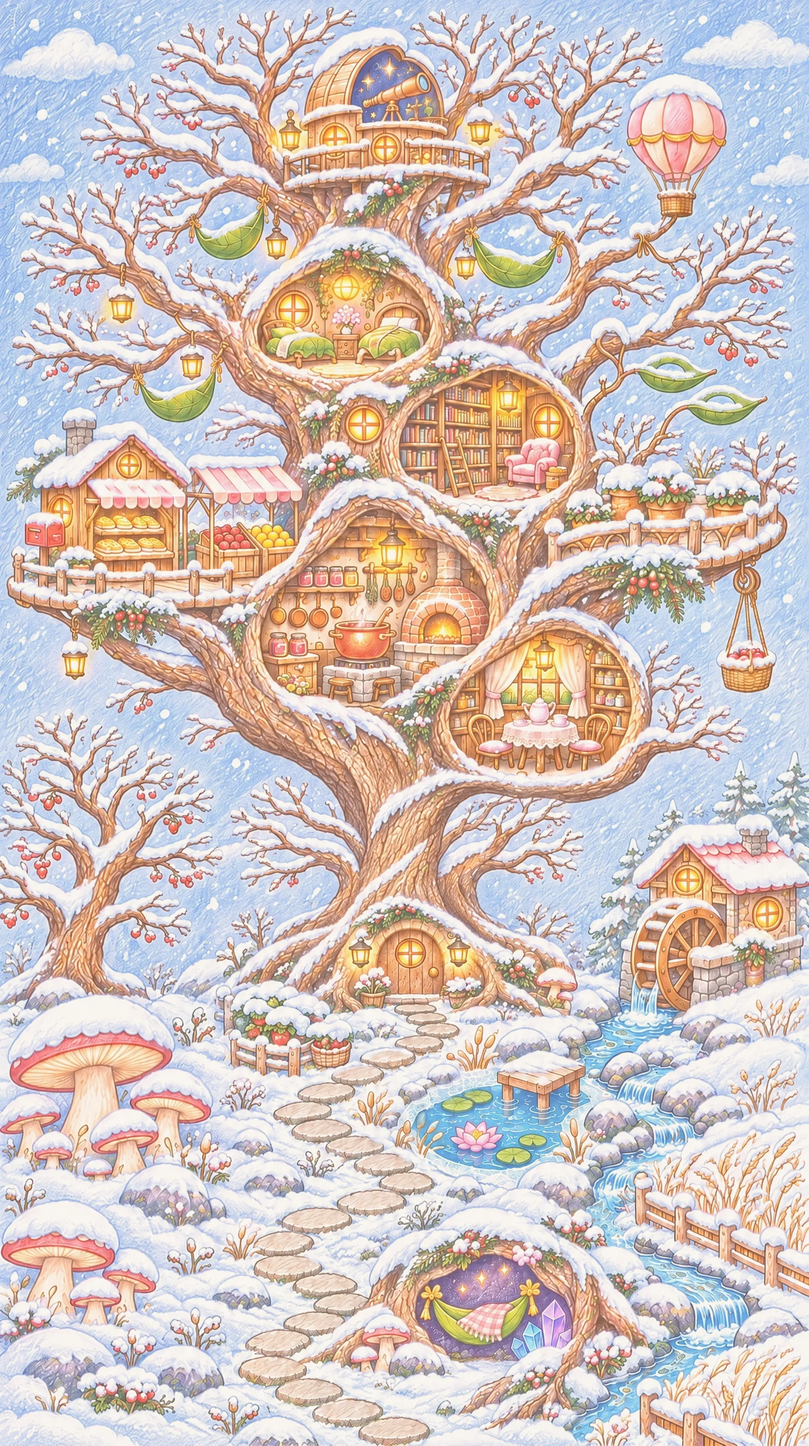
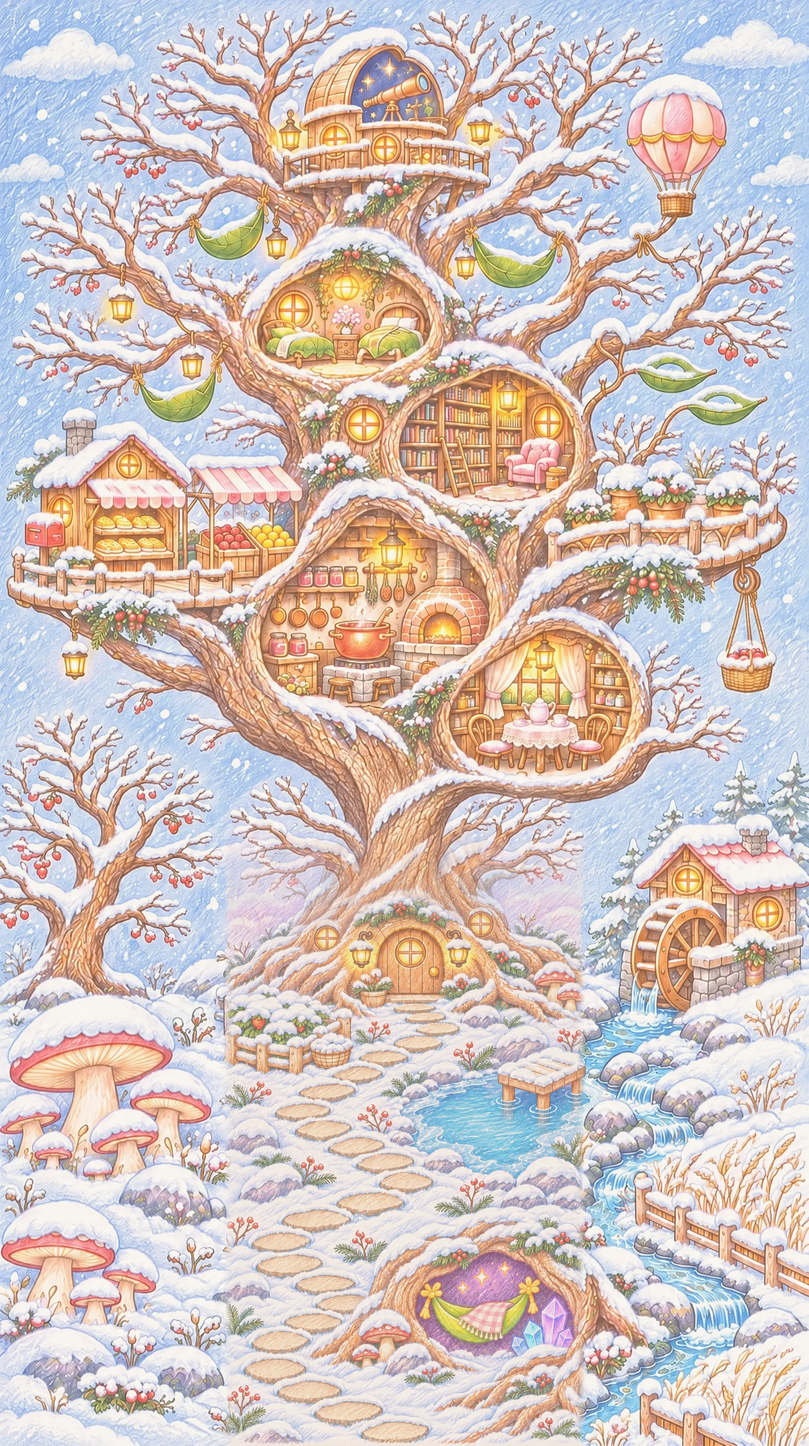
Yard blends into the widened village: sharp yard baked into the tree under a narrow edge (all seasons), no hazy seam bands
Claude-Session: https://claude.ai/code/session_01HHoDmcywH4ye6kNj1xQej8

Changed region(s): [[0.2809, 0.5919, 0.7179, 1.0]]

diff --git a/index.html b/index.html
@@ -1,4 +1,4 @@
-<!doctype html><html lang="ko"><head><meta charset="utf-8"><meta name="viewport" content="width=device-width,initial-scale=1,viewport-fit=cover,user-scalable=no"><meta name="theme-color" content="#f6d6dc"><link rel="manifest" href="manifest.webmanifest"><link rel="icon" href="icon-192.png"><link rel="apple-touch-icon" href="apple-touch-icon.png"><meta name="apple-mobile-web-app-capable" content="yes"><meta name="apple-mobile-web-app-title" content="느림마을"><style>html,body{margin:0}body{font:14px system-ui,sans-serif}[hidden]{display:none!important}</style><script>window.DV_BUILD="1795076090";</script></head><body>
+<!doctype html><html lang="ko"><head><meta charset="utf-8"><meta name="viewport" content="width=device-width,initial-scale=1,viewport-fit=cover,user-scalable=no"><meta name="theme-color" content="#f6d6dc"><link rel="manifest" href="manifest.webmanifest"><link rel="icon" href="icon-192.png"><link rel="apple-touch-icon" href="apple-touch-icon.png"><meta name="apple-mobile-web-app-capable" content="yes"><meta name="apple-mobile-web-app-title" content="느림마을"><style>html,body{margin:0}body{font:14px system-ui,sans-serif}[hidden]{display:none!important}</style><script>window.DV_BUILD="1795077087";</script></head><body>
 <meta charset="utf-8">
 <title>도롱도롱 느림마을</title>
 <meta name="claude:viewport-fit-sides" content="cover">
@@ -1122,7 +1122,7 @@ function season(){if(G.seaT!=null&&G.seaT>=0)return G.seaT;return seaBlock()%4;}
 function berryRate(){return season()!==3?1:[0,.25,.45,.7][G.gh||0];}
 // real local time of day: 0 = day, 1 = night, eased through dawn (5–7) and dusk (17–19)
 // seasonal pictures: spring is the original art; the others load when first needed. A new season fades in over 3 s.
-var SEA_V='4',SEAI={},seaFrom=-1,seaA=1;
+var SEA_V='5',SEAI={},seaFrom=-1,seaA=1;
 function seaImg(base,s){if(s===0)return base==='tree'?TREE:YHI;var key=base+SEA_K[s];if(!SEAI[key]){var im=new Image();im.src='assets/season/'+base+'_'+SEA_K[s]+'.webp?v='+SEA_V;SEAI[key]=im;}var im2=SEAI[key];return im2.complete&&im2.naturalWidth?im2:null;}
 var SEA_MSG=[__T('봄이 왔어요! 벚꽃이 흩날려요'),__T('여름이 왔어요! 연못에 물고기가 많아졌어요'),__T('가을이 왔어요! 곧 겨울이 와서 딸기밭이 쉬어요. 딸기를 모아 두세요'),__T('겨울이 왔어요! 딸기밭이 눈에 덮였어요. 모아 둔 딸기로 지내요')];
 function seaTick(q){var s=season();if(s!==seaLast){if(seaLast>=0){seaFrom=seaLast;seaA=0;if(!q&&!GUEST)toast(SEA_MSG[s]);}seaLast=s;seaImg('tree',(s+1)%4);seaImg('yard',(s+1)%4);setInfo();}
@@ -1167,7 +1167,7 @@ function nextJob(){if(hungry){if(sal.node==='door')startCry();else goTo('door');
 // ---------- view ----------
 // the village is one big tree. the old yard picture sits at the bottom centre (OX,OY) at its own scale,
 // so every yard coordinate in this file stays as it was; the camera works in tree (world) coordinates.
-var WW=1634,WH=2921,OX=441,OY=1577,TREE=new Image();TREE.src='assets/tree.webp';
+var WW=1634,WH=2921,OX=441,OY=1577,TREE=new Image();TREE.src='assets/tree.webp?v=2';
 var dpr=1,W=0,H=0,view={x:OX,y:OY,w:752},tv=null,follow=false,zl=0;
 var VSTAGE=[[1,.46],[3,.68],[5,.76],[10,.82],[15,.88],[22,.94],[30,1],[35,1],[50,1]];
 function popN(){return (typeof G!=='undefined'&&G)?(G.preview||G.n||1):1;}
@@ -1553,7 +1553,7 @@ function update(dt,t){
 function rr(x,y,w,h,r){ctx.beginPath();ctx.moveTo(x+r,y);ctx.arcTo(x+w,y,x+w,y+h,r);ctx.arcTo(x+w,y+h,x,y+h,r);ctx.arcTo(x,y+h,x,y,r);ctx.arcTo(x,y,x+w,y,r);ctx.closePath();}
 function cloud(x,y,w,a){ctx.fillStyle='rgba(255,255,255,'+a+')';var h=w*0.32;ctx.beginPath();ctx.ellipse(x,y,w*0.5,h*0.5,0,0,Math.PI*2);ctx.ellipse(x-w*0.22,y-h*0.25,w*0.24,h*0.5,0,0,Math.PI*2);ctx.ellipse(x+w*0.15,y-h*0.38,w*0.28,h*0.6,0,0,Math.PI*2);ctx.fill();}
 // the moving yard video is softer than the still tree, so its edges melt into the tree and it fades out as the camera steps back
-var YHI=new Image();YHI.src='assets/yard_hi.webp';
+var YHI=new Image();YHI.src='assets/yard_hi.webp?v=2';
 // the sharp, upscaled yard (feathered edges baked in); draw only the part on screen
 function drawYHI(){var s=season();if(seaA<1&&seaFrom>=0){var Yf=seaImg('yard',seaFrom);if(Yf)drawYHI0(Yf,1);var Yc=seaImg('yard',s);if(Yc)drawYHI0(Yc,seaA);return;}var Y=seaImg('yard',s);if(Y)drawYHI0(Y,1);}
 function drawYHI0(YHI,a){if(!YHI.complete||!YHI.naturalWidth)return;ctx.globalAlpha=a;drawYHI1(YHI);ctx.globalAlpha=1;}
